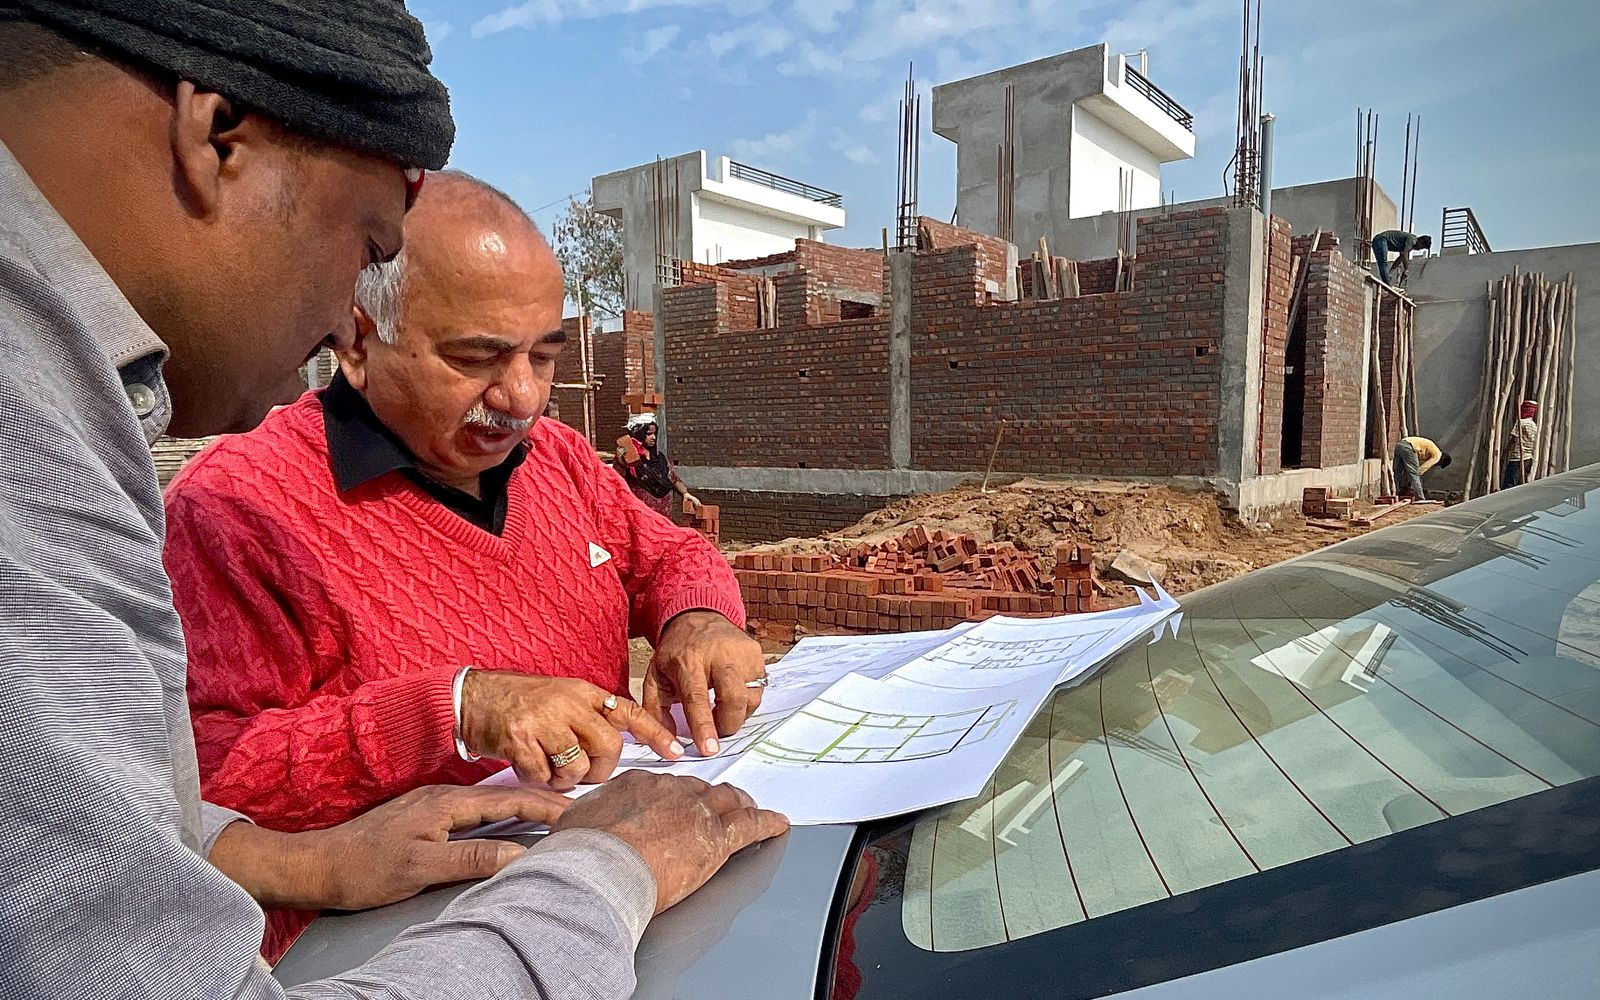
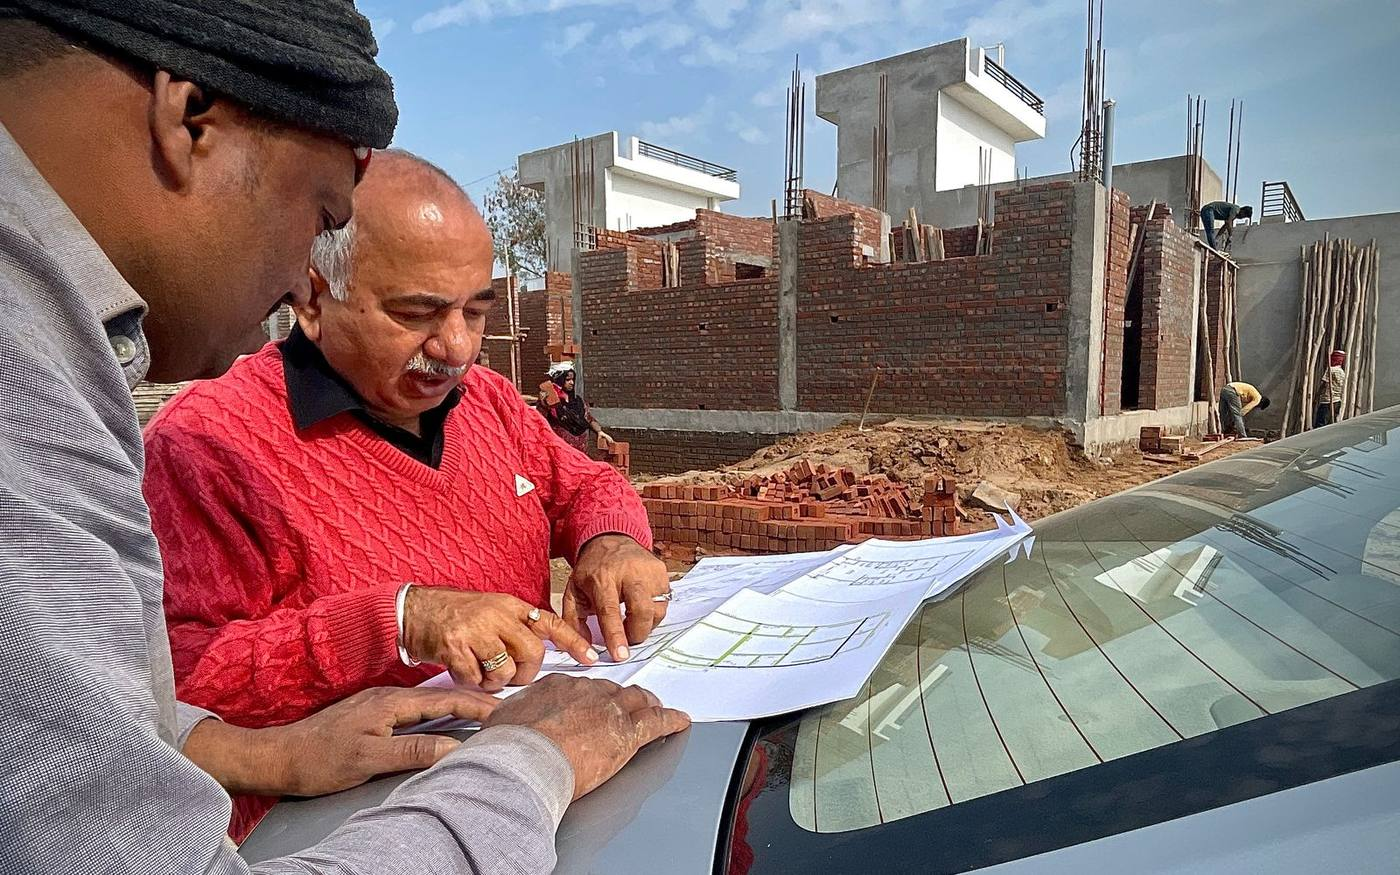
SEO: link the orphan AI-tools post and the newspaper-ads post; compress 4 images over 400 KB
- ai-tools-for-real-estate-agents had no internal links (GSC: Discovered, not indexed): linked from ai-for-real-estate-india
- real-estate-newspaper-ads-vs-digital-ads (also not indexed): extra link from real-estate-ad-examples
- 4 images flagged by qa.js (>400 KB) recompressed: 250-385 KB

diff --git a/content/blog/real-estate-ad-examples/content.html b/content/blog/real-estate-ad-examples/content.html
@@ -52,4 +52,5 @@
   <li>Measuring ads on clicks or cost per lead instead of site visits.</li>
 </ul>
 <p>Running outdoor ads as well? The same rules apply to boards on the road: one message, one image, one next step. Our guide to <a href="/blog/real-estate-hoarding-design">real estate hoarding design</a> has 12 ideas for hoardings and site boards.</p>
+<p>Still deciding between print and online? We compare cost, reach and tracking in <a href="/blog/real-estate-newspaper-ads-vs-digital-ads">newspaper ads vs digital ads for real estate</a>.</p>
 <p>Creative is one part of a campaign. For how we structure the rest — keywords, bidding and tracking — see the <a href="/playbooks/new-launch-meta-google-ads-plan">example launch ads plan</a> or our <a href="/services/paid-ads">Meta and Google ads service</a>. If you want a second opinion on your current ads, ask for a <a href="/free-audit">free marketing audit</a>.</p>

diff --git a/content/blog/ai-for-real-estate-india/content.html b/content/blog/ai-for-real-estate-india/content.html
@@ -30,6 +30,7 @@
   <li>Resizing and cleaning up real site photos, removing clutter, and cutting walkthrough footage into short reels.</li>
   <li>Drafting listing descriptions for resale inventory from a broker’s notes.</li>
 </ul>
+<p>For a tool-by-tool list with what each one is good for, see our guide to <a href="/blog/ai-tools-for-real-estate-agents">AI tools for real estate agents</a>.</p>
 <p>What AI should not do is invent anything. Every price, carpet area, possession date, distance and amenity in AI-written copy must be checked against the RERA registration and the approved brochure. For ad ideas that work in India, see our <a href="/blog/real-estate-ad-examples">real estate ad examples</a>.</p>
 
 <h2 id="ads">4. Smarter ad targeting and bidding</h2>
